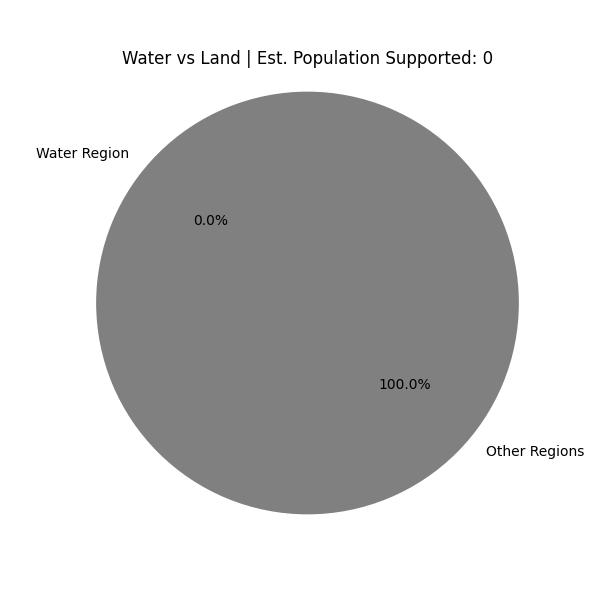
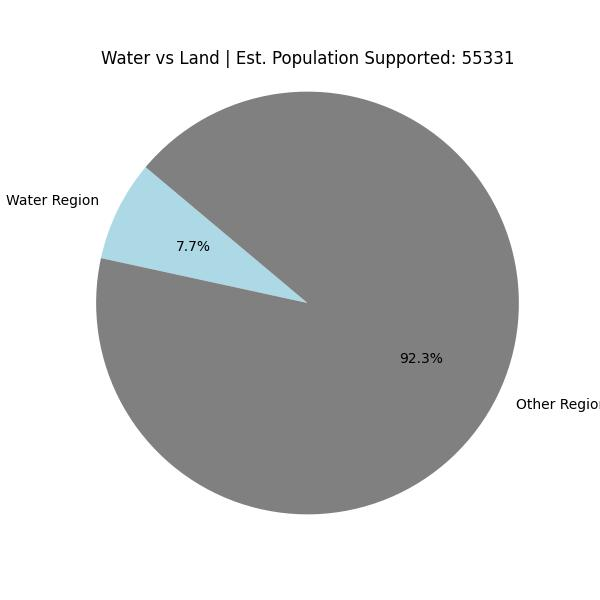
solve issue in waterMaskPie feature

diff --git a/backend/src/scripts/waterExtract.py b/backend/src/scripts/waterExtract.py
@@ -1,104 +1,54 @@
+from PIL import Image
 import numpy as np
-import tensorflow as tf
-from tensorflow.keras import layers,Model
-from tensorflow.keras.layers import Input
-from tensorflow.keras.models import Model
 import matplotlib.pyplot as plt
-import cv2
 
-# 1. Define the U-Net architecture (copied from the notebook)
-def unet_model(input_size=(256, 256, 3)):
-    inputs = Input(input_size)
-    
-    c1 = layers.Conv2D(64, (3, 3), activation='relu', padding='same')(inputs)
-    c1 = layers.BatchNormalization()(c1)
-    c1 = layers.Conv2D(64, (3, 3), activation='relu', padding='same')(c1)
-    c1 = layers.BatchNormalization()(c1)
-    p1 = layers.MaxPooling2D((2, 2))(c1)
-    p1 = layers.Dropout(0.2)(p1)
+Input_path = "backend/public/Output/water_mask.jpg"
+output_path = "backend/public/Output/water_pie.jpg"
 
-    c2 = layers.Conv2D(128, (3, 3), activation='relu', padding='same')(p1)
-    c2 = layers.BatchNormalization()(c2)
-    c2 = layers.Conv2D(128, (3, 3), activation='relu', padding='same')(c2)
-    c2 = layers.BatchNormalization()(c2)
-    p2 = layers.MaxPooling2D((2, 2))(c2)
-    p2 = layers.Dropout(0.2)(p2)
+def anazlyeWater(Input_path, Output_path):
+    image = Image.open(Input_path).convert("RGB")
+    resized_image = image.resize((256, 256))
+    image_np = np.array(resized_image)
 
-    c3 = layers.Conv2D(256, (3, 3), activation='relu', padding='same')(p2)
-    c3 = layers.BatchNormalization()(c3)
-    c3 = layers.Conv2D(256, (3, 3), activation='relu', padding='same')(c3)
-    c3 = layers.BatchNormalization()(c3)
-    p3 = layers.MaxPooling2D((2, 2))(c3)
-    p3 = layers.Dropout(0.3)(p3)
+    # Define water color
+    water_color = np.array([173, 216, 230])
+    tolerance = 10  # Allow variation due to JPEG compression
 
-    c4 = layers.Conv2D(512, (3, 3), activation='relu', padding='same')(p3)
-    c4 = layers.BatchNormalization()(c4)
-    c4 = layers.Conv2D(512, (3, 3), activation='relu', padding='same')(c4)
-    c4 = layers.BatchNormalization()(c4)
-    p4 = layers.MaxPooling2D((2, 2))(c4)
-    p4 = layers.Dropout(0.3)(p4)
+    # Create mask with color distance tolerance
+    color_diff = np.abs(image_np - water_color)
+    water_mask = np.all(color_diff <= tolerance, axis=-1)
 
-    c5 = layers.Conv2D(1024, (3, 3), activation='relu', padding='same')(p4)
-    c5 = layers.BatchNormalization()(c5)
-    c5 = layers.Conv2D(1024, (3, 3), activation='relu', padding='same')(c5)
-    c5 = layers.BatchNormalization()(c5)
+    water_pixels = np.sum(water_mask)
+    non_water_pixels = water_mask.size - water_pixels
 
-    # Decoder
-    u1 = layers.UpSampling2D((2, 2))(c5)
-    u1 = layers.concatenate([u1, c4])
-    c6 = layers.Conv2D(512, (3, 3), activation='relu', padding='same')(u1)
-    c6 = layers.BatchNormalization()(c6)
-    c6 = layers.Conv2D(512, (3, 3), activation='relu', padding='same')(c6)
-    c6 = layers.BatchNormalization()(c6)
+    # Groundwater estimation
+    PIXEL_AREA_M2 = 100
+    AVG_WATER_DEPTH_M = 2
+    DAILY_NEED_LITERS = 50
+    DAYS = 365
+    LITERS_PER_CUBIC_METER = 1000
 
-    u2 = layers.UpSampling2D((2, 2))(c6)
-    u2 = layers.concatenate([u2, c3])
-    c7 = layers.Conv2D(256, (3, 3), activation='relu', padding='same')(u2)
-    c7 = layers.BatchNormalization()(c7)
-    c7 = layers.Conv2D(256, (3, 3), activation='relu', padding='same')(c7)
-    c7 = layers.BatchNormalization()(c7)
+    ground_water_volume_m3 = water_pixels * PIXEL_AREA_M2 * AVG_WATER_DEPTH_M
+    ground_water_volume_liters = ground_water_volume_m3 * LITERS_PER_CUBIC_METER
+    population_supported = int(ground_water_volume_liters / (DAILY_NEED_LITERS * DAYS))
 
-    u3 = layers.UpSampling2D((2, 2))(c7)
-    u3 = layers.concatenate([u3, c2])
-    c8 = layers.Conv2D(128, (3, 3), activation='relu', padding='same')(u3)
-    c8 = layers.BatchNormalization()(c8)
-    c8 = layers.Conv2D(128, (3, 3), activation='relu', padding='same')(c8)
-    c8 = layers.BatchNormalization()(c8)
+    # Pie Chart
+    labels = ['Water Region', 'Other Regions']
+    sizes = [water_pixels, non_water_pixels]
+    colors = ['#ADD8E6', 'gray']
 
-    u4 = layers.UpSampling2D((2, 2))(c8)
-    u4 = layers.concatenate([u4, c1])
-    c9 = layers.Conv2D(64, (3, 3), activation='relu', padding='same')(u4)
-    c9 = layers.BatchNormalization()(c9)
-    c9 = layers.Conv2D(64, (3, 3), activation='relu', padding='same')(c9)
-    c9 = layers.BatchNormalization()(c9)
+    plt.figure(figsize=(6, 6))
+    plt.pie(sizes, labels=labels, colors=colors, autopct='%1.1f%%', startangle=140)
+    plt.title(f'Water vs Land | Est. Population Supported: {population_supported}')
+    plt.axis('equal')
+    plt.savefig(Output_path, format='jpg')
+    plt.close()
 
-    # Final output layer
-    outputs = layers.Conv2D(1, (1, 1), activation='sigmoid')(c9)
+    return {
+        "Water Pixels": water_pixels,
+        "Estimated Ground Water Volume (L)": ground_water_volume_liters,
+        "Estimated Population Supported (1 year)": population_supported
+    }
 
-    model = Model(inputs=inputs, outputs=outputs)
-    return model
-
-# 2. Build and load weights
-model = unet_model()
-model.load_weights('src/model_ml/cp.weights.h5')
-
-# Preprocess image
-def preprocess_image(image_path, img_size=(256, 256)):
-    image = cv2.imread(image_path)
-    image = cv2.resize(image, img_size)
-    image = image / 255.0
-    return np.expand_dims(image, axis=0)
-
-image_path = "public/input/sat.jpg"  
-output_path = "public/Output/water_mask.jpg"
-image = preprocess_image(image_path)
-pred_mask = model.predict(image)[0, :, :, 0]
-binary_mask = (pred_mask > 0.5).astype(np.uint8)
- 
-# Create an RGB image with light blue (173, 216, 230) and black (0, 0, 0)
-light_blue = [173, 216, 230]
-mask_rgb = np.zeros((binary_mask.shape[0], binary_mask.shape[1], 3), dtype=np.uint8)
-mask_rgb[binary_mask == 1] = light_blue  # water
-mask_rgb[binary_mask == 0] = [0, 0, 0]   # background
-
-cv2.imwrite(output_path, cv2.cvtColor(mask_rgb, cv2.COLOR_RGB2BGR))
+data = anazlyeWater(Input_path, output_path)
+print(data)

diff --git a/backend/src/scripts/waterMaskPie.py b/backend/src/scripts/waterMaskPie.py
@@ -11,7 +11,7 @@ def anazlyeWater(Input_path, Output_path) :
     image_np = np.array(resized_image)
 
     # Define the water color (blue)
-    water_color = np.array([0, 0, 255])
+    water_color = np.array([173, 216, 230])
 
     # Create mask
     water_mask = np.all(image_np == water_color, axis=-1)
@@ -55,4 +55,5 @@ def anazlyeWater(Input_path, Output_path) :
     data["Estimated Population Supported (1 year)"] = population_supported
     return data
 
-anazlyeWater(Input_path, output_path)
+data = anazlyeWater(Input_path, output_path)
+print(data)
